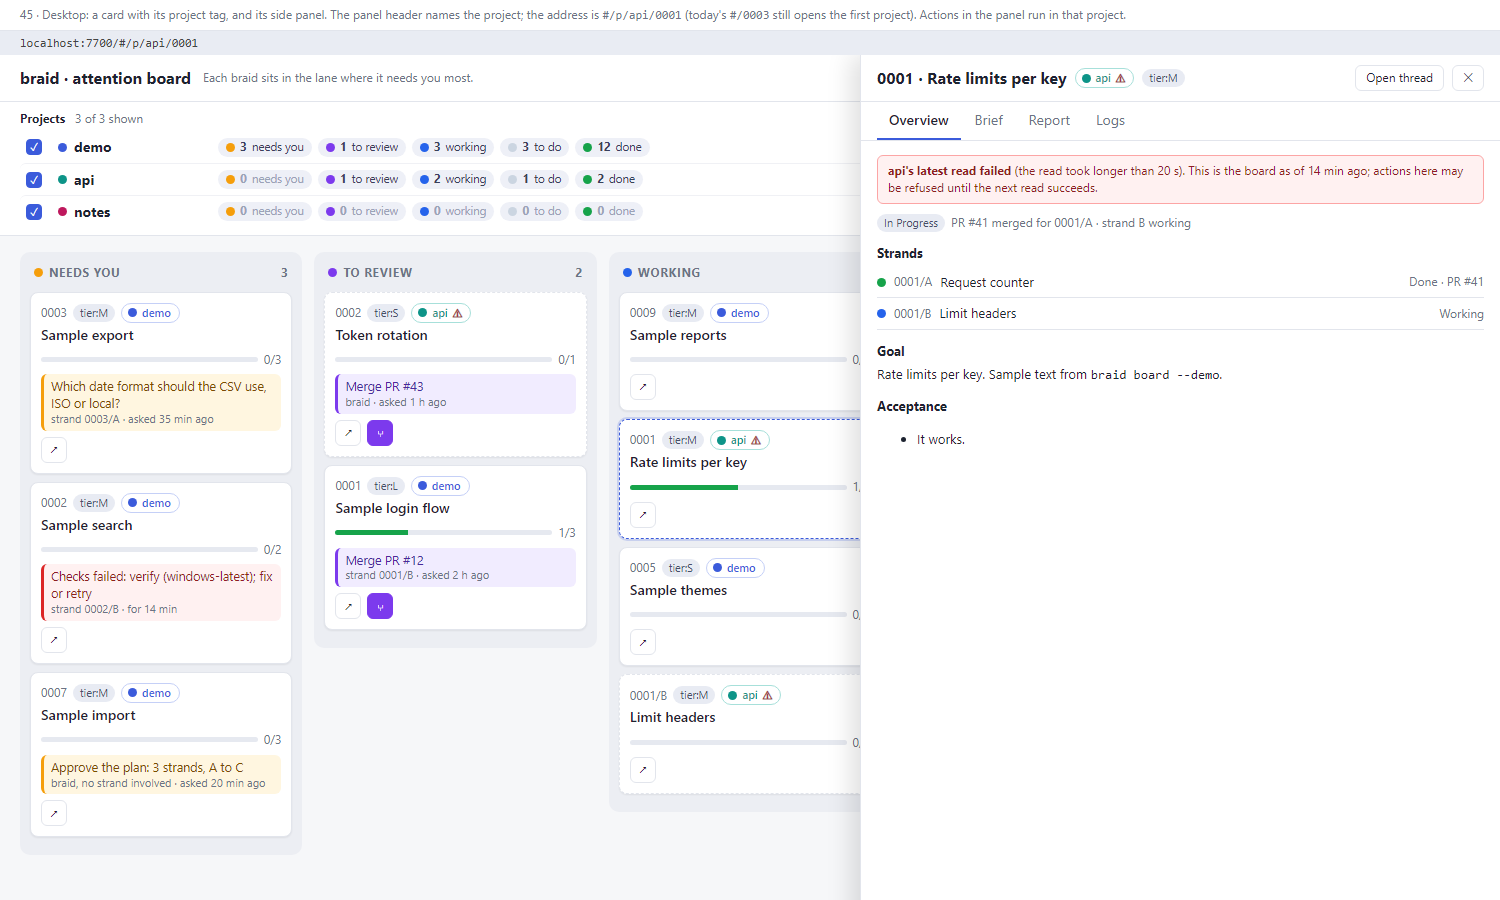
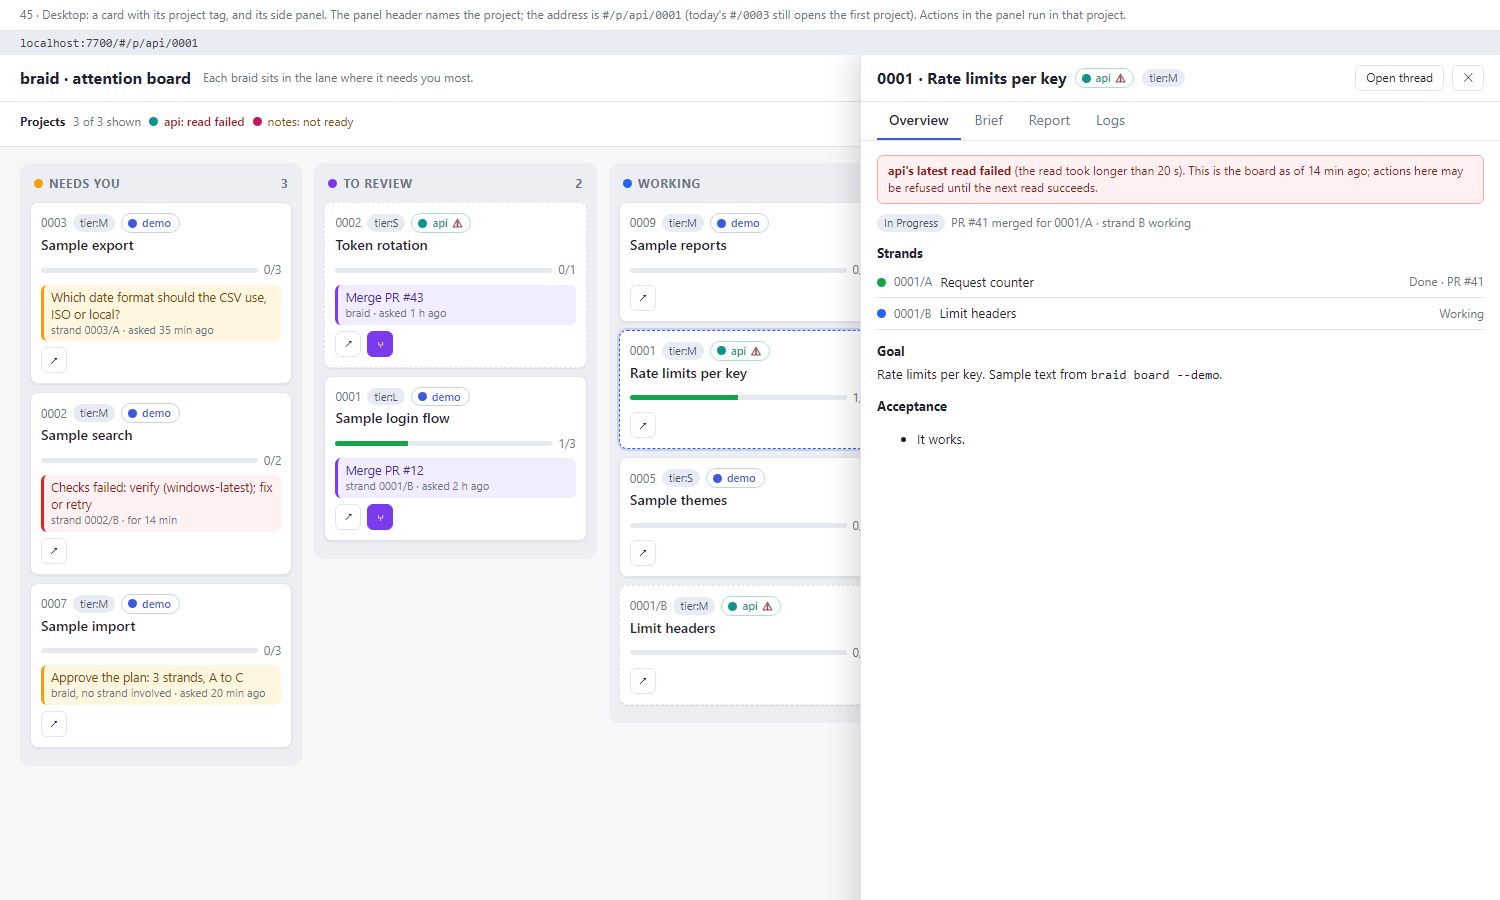
docs(design): 0049/D mockups with the Projects block collapsed by default

Changed region(s): [[0.0, 0.1244, 0.5213, 0.9022], [0.3987, 0.3422, 0.5827, 0.8089]]

diff --git a/docs/design/board-mockups/all-projects.html b/docs/design/board-mockups/all-projects.html
@@ -119,7 +119,9 @@ function rd(p){const x=P[p];
   if(x.ready==='nr')return `<span class="rd nr">▲ Not ready · ${x.problems.length} problems <u>· read ${x.age} ago</u></span>`;
   if(x.ready==='fail')return `<span class="rd fail">✕ Read failed · board is ${x.age} old</span>`;
   return `<span class="rd none">… Not read yet</span>`;}
-function lines(sel,expand){return `<div class="projects"><div class="ph"><b style="color:var(--ink)">Projects</b><span>${sel.length} of 3 shown</span><span class="sp"></span>${sel.length<3?'<a>Show all</a>':'<span>Click a line to show or hide it · “only” shows just that one</span>'}</div>`+
+function summary(sel){const bad=Object.keys(P).filter(p=>P[p].ready!=='ok');
+ return `<div class="projects"><div class="ph" style="min-height:30px;gap:8px"><b style="color:var(--ink)">Projects</b><span>${sel.length} of 3 shown</span>${bad.map(p=>`<span class="rd ${P[p].ready==='fail'?'fail':'nr'}" style="${sel.includes(p)?'':'opacity:.6'}"><span class="pd p-${p}"></span>${p}: ${P[p].ready==='fail'?'read failed':'not ready'}</span>`).join('')}<span class="sp"></span><a>▸ Show projects</a></div></div>`;}
+function lines(sel,expand,forceOpen){if(!forceOpen&&COLLAPSED)return summary(sel);return `<div class="projects"><div class="ph"><b style="color:var(--ink)">Projects</b><span>${sel.length} of 3 shown</span><span class="sp"></span><a style="margin-right:12px">▾ Hide</a>${sel.length<3?'<a>Show all</a>':'<span>Click a line to show or hide it · “only” shows just that one</span>'}</div>`+
  Object.keys(P).map(p=>{const on=sel.includes(p);const x=P[p];return `<div class="pl ${on?'on':'off'}"><span class="cb">${on?'✓':''}</span><span class="nm"><span class="pd p-${p}"></span>${p}</span>${counts(p)}<span style="display:flex;gap:6px;align-items:center">${rd(p)}<a class="only">only</a></span></div>`+
  (expand&&expand.includes(p)?sub(p):'')}).join('')+`</div>`;}
 function sub(p){const x=P[p];
@@ -144,12 +146,14 @@ function pnotes(sel){return sel.filter(p=>P[p].ready!=='ok').map(p=>P[p].ready==
 function phone(sel,laneIdx,extra=''){const vis=cards.filter(c=>sel.includes(c[0])&&c[4]===laneIdx);const tg=sel.length>1;
  return `<body class="ph">`;}
 
+let COLLAPSED=true; // set per screen below
 // ---- screens ------------------------------------------------------------------------------------------------
 const S = {};
-S['41-all-desktop'] = `<div class="cap">41 · Desktop, filter = all three projects. One line per project (counts, readiness, board age); cards carry their project tag. api's last read failed, notes isn't ready.</div>${url('','#/')}${head()}${lines(['demo','api','notes'])}${lanes(['demo','api','notes'])}`;
-S['42-filter-one-desktop'] = `<div class="cap">42 · Desktop, filter = one project (api, from “only” on its line). The other lines stay, dimmed; cards lose their tag (one project, nothing to tell apart). api's failed read is in its line and the box under it.</div>${url('?projects=api','#/')}${head()}${lines(['api'],['api'])}${lanes(['api'])}`;
-S['43-filter-two-desktop'] = `<div class="cap">43 · Desktop, two of three (demo + notes; api unticked). Counts above each lane add up the shown projects. notes isn't ready: its amber box sits under its line, as it does on today's single-project page.</div>${url('?projects=demo,notes','#/')}${head()}${lines(['demo','notes'],['notes'])}${lanes(['demo','notes'])}`;
-S['44-project-lines'] = `<div class="cap">44 · The project line in each state, closer: ready · not ready (problems listed under the line) · read failed (older board kept, its age shown, reason under the line) · not read yet. Counts are the five lanes, zeros dimmed.</div>${url('','#/')}<div style="padding:16px 0">${(()=>{
+S['41-all-desktop'] = ()=>`<div class="cap">41 · Desktop, all three projects, Projects block collapsed (the default): one summary line that always names a failed read and a not-ready project. Cards carry their project tag.</div>${url('','#/')}${head()}${lines(['demo','api','notes'])}${lanes(['demo','api','notes'])}`;
+S['50-projects-opened-desktop'] = ()=>`<div class="cap">50 · Desktop, the Projects block opened by a click on the summary line (▸ Show projects): one line per project, as in the first mockups; ▾ Hide folds it again.</div>${url('','#/')}${head()}${lines(['demo','api','notes'],['api','notes'])}${lanes(['demo','api','notes'])}`;
+S['42-filter-one-desktop'] = ()=>`<div class="cap">42 · Desktop, filter = one project (api, from “only” on its line). The other lines stay, dimmed; cards lose their tag (one project, nothing to tell apart). api's failed read is in its line and the box under it.</div>${url('?projects=api','#/')}${head()}${lines(['api'],['api'])}${lanes(['api'])}`;
+S['43-filter-two-desktop'] = ()=>`<div class="cap">43 · Desktop, collapsed, two of three (demo + notes). Lane totals add up the shown projects. The summary shows 'api: read failed' muted, because api is hidden but still has a problem.</div>${url('?projects=demo,notes','#/')}${head()}${lines(['demo','notes'],['notes'])}${lanes(['demo','notes'])}`;
+S['44-project-lines'] = ()=>`<div class="cap">44 · The project line in each state, closer: ready · not ready (problems listed under the line) · read failed (older board kept, its age shown, reason under the line) · not read yet. Counts are the five lanes, zeros dimmed.</div>${url('','#/')}<div style="padding:16px 0">${(()=>{
   const save=P.demo; const x={...P};
   const mk=(n,o)=>{P[n]={...P[n],...o}};
   let out='';
@@ -159,27 +163,28 @@ S['44-project-lines'] = `<div class="cap">44 · The project line in each state, 
   P.api={...P.api,ready:'none',c:[0,0,0,0,0]};
   out+=`<div class="mut" style="padding:12px 20px 4px">First read still running (or failed before any board was read)</div>${lines(['api'])}`;
   P.api={...x.api};return out;})()}</div>`;
-S['45-card-and-panel-desktop'] = `<div class="cap">45 · Desktop: a card with its project tag, and its side panel. The panel header names the project; the address is <code>#/p/api/0001</code> (today's <code>#/0003</code> still opens the first project). Actions in the panel run in that project.</div>${url('','#/p/api/0001')}<div style="position:relative;height:880px;overflow:hidden">${head()}${lines(['demo','api','notes'])}${lanes(['demo','api','notes'],{sel:['api','0001']})}
+S['45-card-and-panel-desktop'] = ()=>`<div class="cap">45 · Desktop: a card with its project tag, and its side panel. The panel header names the project; the address is <code>#/p/api/0001</code> (today's <code>#/0003</code> still opens the first project). Actions in the panel run in that project.</div>${url('','#/p/api/0001')}<div style="position:relative;height:880px;overflow:hidden">${head()}${lines(['demo','api','notes'])}${lanes(['demo','api','notes'],{sel:['api','0001']})}
  <div class="panel" style="top:0"><div class="ph2"><h2>0001 · Rate limits per key</h2><span class="tag api"><span class="pd p-api"></span>api <span class="w">⚠</span></span><span class="badge">tier:M</span><span class="sp"></span><button>Open thread</button><button>✕</button></div>
  <div class="tabs2"><a class="on">Overview</a><a>Brief</a><a>Report</a><a>Logs</a></div>
  <div class="body"><div class="sub fail" style="margin:0 0 10px"><b>api's latest read failed</b> (the read took longer than 20 s). This is the board as of 14 min ago; actions here may be refused until the next read succeeds.</div>
  <div class="row"><span class="badge">In Progress</span><span class="mut">PR #41 merged for 0001/A · strand B working</span></div>
  <h4>Strands</h4><div class="strandrow"><span class="dot l-done"></span><span class="mut">0001/A</span>Request counter<span class="sp"></span><span class="mut">Done · PR #41</span></div><div class="strandrow"><span class="dot l-prog"></span><span class="mut">0001/B</span>Limit headers<span class="sp"></span><span class="mut">Working</span></div>
  <h4>Goal</h4><p>Rate limits per key. Sample text from <code>braid board --demo</code>.</p><h4>Acceptance</h4><ul><li>It works.</li></ul></div></div></div>`;
-S['46-inbox-desktop'] = `<div class="cap">46 · Desktop, the inbox follows the same filter: each entry is tagged with its project (tag hidden when one project is shown).</div>${url('?projects=demo,api','#/inbox')}${head()}${lines(['demo','api'],['api'])}<div class="inbox">${[['demo','`braid note --from` rejects "review 0012/A" with a trailing space','leftover · from review 0012/A · 2 h'],['api','Rate limit headers differ between 429 and 200 replies','leftover · from 0001/A · 1 d'],['demo','A “what changed since I looked” view','idea · 40 min'],['api','Per-key burst allowance','idea · 3 d']].map(e=>`<div class="ent"><div class="row">${tag(e[0])}<span class="t">${e[1]}</span></div><p class="mut">${e[2]}</p></div>`).join('')}</div>`;
+S['46-inbox-desktop'] = ()=>`<div class="cap">46 · Desktop, the inbox follows the same filter: each entry is tagged with its project (tag hidden when one project is shown).</div>${url('?projects=demo,api','#/inbox')}${head()}${lines(['demo','api'],['api'])}<div class="inbox">${[['demo','`braid note --from` rejects "review 0012/A" with a trailing space','leftover · from review 0012/A · 2 h'],['api','Rate limit headers differ between 429 and 200 replies','leftover · from 0001/A · 1 d'],['demo','A “what changed since I looked” view','idea · 40 min'],['api','Per-key burst allowance','idea · 3 d']].map(e=>`<div class="ent"><div class="row">${tag(e[0])}<span class="t">${e[1]}</span></div><p class="mut">${e[2]}</p></div>`).join('')}</div>`;
 
 const PH = (inner)=>`<div class="ph">${inner}</div>`;
 const pcards = (sel,lane)=>`<div class="pcards">${cards.filter(c=>sel.includes(c[0])&&c[4]===lane).map(c=>card(c,{tag:sel.length>1})).join('')}</div>`;
-S['47-phone-all'] = `<div class="ph"><div class="cap" style="font-size:11px;padding:4px 14px">47 · Phone, all projects. A project picker above the lane tabs; notes under it for failed or not-ready projects.</div>${url('','#/')}<header><b>braid · attention board</b><span class="sp"></span><span class="mut">read-only</span></header>${ppick(['demo','api','notes'])}${pnotes(['demo','api','notes'])}<div style="height:10px"></div>${ptabs(['demo','api','notes'])}${pcards(['demo','api','notes'],0)}</div>`;
-S['48-phone-filter'] = `<div class="ph" style="height:844px;overflow:hidden"><div class="cap" style="font-size:11px;padding:4px 14px">48 · Phone, the picker opened: one line per project in a sheet, tick any, “only” for one.</div>${url('?projects=demo,api','#/')}<header><b>braid · attention board</b><span class="sp"></span><span class="mut">read-only</span></header>${ppick(['demo','api'])}${pnotes(['demo','api'])}<div style="height:10px"></div>${ptabs(['demo','api'])}${pcards(['demo','api'],0)}
+S['47-phone-all'] = ()=>`<div class="ph"><div class="cap" style="font-size:11px;padding:4px 14px">47 · Phone, all projects. A project picker above the lane tabs; notes under it for failed or not-ready projects.</div>${url('','#/')}<header><b>braid · attention board</b><span class="sp"></span><span class="mut">read-only</span></header>${ppick(['demo','api','notes'])}${pnotes(['demo','api','notes'])}<div style="height:10px"></div>${ptabs(['demo','api','notes'])}${pcards(['demo','api','notes'],0)}</div>`;
+S['48-phone-filter'] = ()=>`<div class="ph" style="height:844px;overflow:hidden"><div class="cap" style="font-size:11px;padding:4px 14px">48 · Phone, the picker opened: one line per project in a sheet, tick any, “only” for one.</div>${url('?projects=demo,api','#/')}<header><b>braid · attention board</b><span class="sp"></span><span class="mut">read-only</span></header>${ppick(['demo','api'])}${pnotes(['demo','api'])}<div style="height:10px"></div>${ptabs(['demo','api'])}${pcards(['demo','api'],0)}
  <div class="shade"></div><div class="sheet"><div class="grab"></div><h5><span>Projects</span><a style="color:var(--acc);text-transform:none;font-size:13px">Show all</a></h5>
  ${['demo','api','notes'].map(p=>{const on=p!=='notes';return `<div class="sp1 ${on?'on':'off'}"><span class="cb">${on?'✓':''}</span><span class="nm"><span class="pd p-${p}"></span>${p}<a class="only">only</a></span>${counts(p)}${rd(p)}</div>`}).join('')}
  <button class="done">Show 2 projects</button></div></div>`;
-S['49-phone-card-panel'] = `<div class="ph" style="height:844px;overflow:hidden"><div class="cap" style="font-size:11px;padding:4px 14px">49 · Phone, a card (tag next to its id) opened to its panel, full screen as today; the header repeats the project.</div>${url('?projects=demo,api','#/p/api/0002')}<div class="fullpanel"><div class="top"><span class="back">‹</span><b>0002 · Token rotation</b><span class="sp"></span><span class="tag api"><span class="pd p-api"></span>api <span class="w">⚠</span></span></div><div class="tabs2" style="overflow:hidden"><a class="on">Overview</a><a>Brief</a><a>Report</a><a>Logs</a></div><div style="padding:14px"><div class="pnote fail" style="margin:0 0 10px"><b>api:</b> read failed, this board is 14 min old</div><div class="row"><span class="badge">In Progress</span><span class="badge">tier:S</span></div><div class="need n-rev" style="margin-top:12px">Merge PR #43<small>braid · asked 1 h ago</small></div><div class="row" style="margin-top:12px"><span class="tap" style="border:1px solid var(--line);display:flex;align-items:center">↗ Open thread</span><span class="tap" style="background:var(--rev);color:#fff;display:flex;align-items:center">⑂ Merge</span></div><h4>Goal</h4><p>Token rotation. Sample text from <code>braid board --demo</code>.</p></div></div></div>`;
+S['49-phone-card-panel'] = ()=>`<div class="ph" style="height:844px;overflow:hidden"><div class="cap" style="font-size:11px;padding:4px 14px">49 · Phone, a card (tag next to its id) opened to its panel, full screen as today; the header repeats the project.</div>${url('?projects=demo,api','#/p/api/0002')}<div class="fullpanel"><div class="top"><span class="back">‹</span><b>0002 · Token rotation</b><span class="sp"></span><span class="tag api"><span class="pd p-api"></span>api <span class="w">⚠</span></span></div><div class="tabs2" style="overflow:hidden"><a class="on">Overview</a><a>Brief</a><a>Report</a><a>Logs</a></div><div style="padding:14px"><div class="pnote fail" style="margin:0 0 10px"><b>api:</b> read failed, this board is 14 min old</div><div class="row"><span class="badge">In Progress</span><span class="badge">tier:S</span></div><div class="need n-rev" style="margin-top:12px">Merge PR #43<small>braid · asked 1 h ago</small></div><div class="row" style="margin-top:12px"><span class="tap" style="border:1px solid var(--line);display:flex;align-items:center">↗ Open thread</span><span class="tap" style="background:var(--rev);color:#fff;display:flex;align-items:center">⑂ Merge</span></div><h4>Goal</h4><p>Token rotation. Sample text from <code>braid board --demo</code>.</p></div></div></div>`;
 
 const key = new URLSearchParams(location.search).get('s')||'41-all-desktop';
 document.body.className = key.includes('phone')?'ph':'';
-document.body.innerHTML += S[key].replace(/^<div class="ph">/,'<div class="ph" style="width:390px">');
+COLLAPSED=!/open|44|46/.test(key);
+document.body.innerHTML += S[key]().replace(/^<div class="ph">/,'<div class="ph" style="width:390px">');
 if(key.includes('phone')) document.body.style.width='390px';
 </script>
 </body></html>
